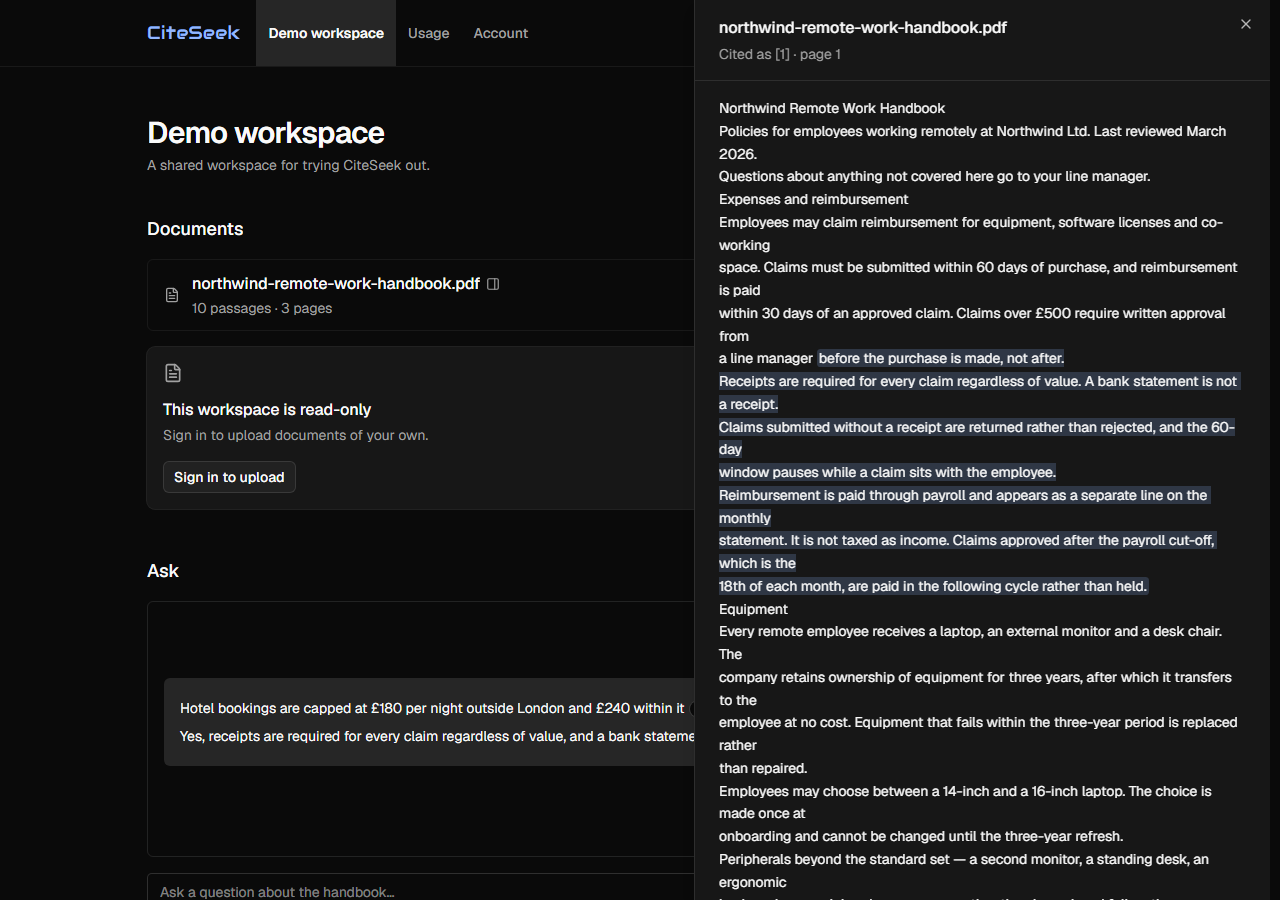
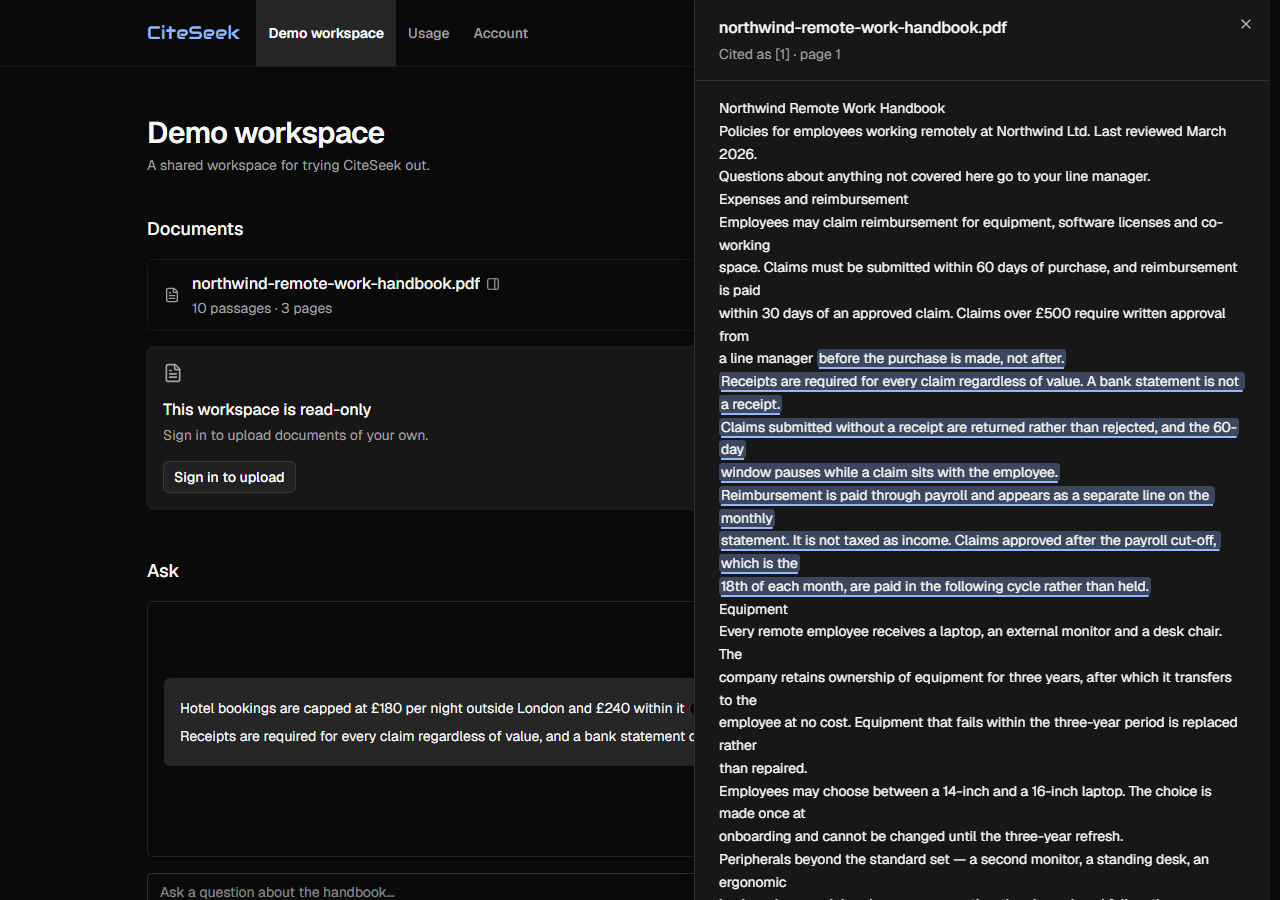
docs: regenerate the shots the highlight change invalidated, and stop making a fourth (#119)
* docs: regenerate the shots the highlight change invalidated, and stop making a fourth

* docs: count every review-note entry, not just the top-level ones

Changed region(s): [[0.5625, 0.4044, 0.9688, 0.6844], [0.125, 0.8089, 0.5312, 0.84]]

diff --git a/docs/code-review-notes.md b/docs/code-review-notes.md
@@ -1726,3 +1726,39 @@ surfaces. None of these is the kind of thing a test suite is shaped to notice.
   are the first thing lost when a finding is compressed into a task. A backlog entry that reads
   more confidently than its source has been edited into a claim nobody made. Where a review names
   the experiment, run it before writing the entry — that is cheaper than the entry.
+
+## One class change, three stale artifacts, and a grep that could not see two of them
+
+- **Issue**: bumping the citation highlight from `bg-primary/20` to `bg-primary/30` and adding an
+  underline was four tokens in one `className`. It invalidated three things elsewhere, none of
+  them code, so nothing could fail: **ADR 023**, which named `bg-primary/20` in three places and
+  carried a contrast table measured at that alpha; and **two README screenshots**, which show the
+  panel with the old tint and no underline.
+
+- **And the refactor beside it missed two of its own call sites.** Extracting the page gutter
+  converted twelve, and the grep that verified it searched for the literal
+  `mx-auto w-full max-w-`. Two sites are written `mx-auto flex w-full max-w-…` — a class in the middle — so the
+  check could not match them however many times it was run. One of the two sat thirty lines above
+  a block the same commit had converted.
+
+- **What the check was actually doing.** Confirming, not testing. It could return "clean" whether
+  or not the work was complete, because the pattern it searched for was narrower than the pattern
+  the code uses. A verification that cannot produce a counterexample is a restatement of the
+  claim — and this is the third time in a fortnight: the throwing-stream test that measured a
+  clock, the contrast computed from `--card` when the panel paints `--background`, and now this.
+
+- **Fix**: both sites converted, and re-verified with `mx-auto[^"]*max-w-[0-9a-z]+[^"]*px-3` —
+  fourteen call sites, zero raw gutters. ADR 023 gained an `↳ Amended` block rather than an edit,
+  so the `/20` measurement stays on the record as what was true when the decision was made. The
+  screenshots were regenerated, and `answer.png` came back **byte-identical**, which is the
+  evidence that only the panel changed.
+
+- **Lesson**: **a change to something visual has a blast radius made entirely of things that
+  cannot fail.** No test asserts that an ADR describes the current class, or that a screenshot
+  shows the current UI, and no reviewer reads a PNG. The habit worth keeping is to ask, of any
+  visual change, _what recorded a measurement of this_ — because the answer is usually a document
+  and an image, and both go quietly wrong.
+
+  For the grep: **write the check to find counterexamples, then confirm it can.** Searching for a
+  literal you already know is present tests nothing. Had the pattern been run against the file
+  before the refactor and returned fourteen, twelve would have been visibly short.

diff --git a/README.md b/README.md
@@ -79,7 +79,7 @@ shaped the product rather than the toolchain.
 ## Mistakes worth reading
 
 The decisions above are the ones that worked. [`docs/code-review-notes.md`](docs/code-review-notes.md)
-is the other half — 26 entries of _issue found → fix → lesson_, written when review caught a bug, a
+is the other half — 64 entries of _issue found → fix → lesson_, written when review caught a bug, a
 wrong assumption, or a better approach. Not all of them are the tooling's.
 
 Three that show the shape of it:
